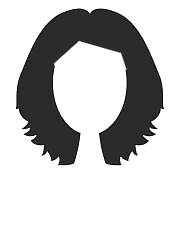
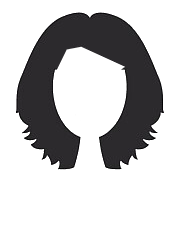
update hair dryer

diff --git a/dist/main.js b/dist/main.js
@@ -66,7 +66,7 @@ eval("__webpack_require__.r(__webpack_exports__);\n/* harmony export */ __webpac
   \**********************************/
 /***/ (function(__unused_webpack_module, __webpack_exports__, __webpack_require__) {
 
[2 lines of base64/hex data omitted]
 
 /***/ }),
 

diff --git a/src/scripts/hairDryer.js b/src/scripts/hairDryer.js
@@ -16,6 +16,14 @@ export default class HairDryer{
             this.hair_obj.src="/src/image/hairstyle/initial/initial.png";
             this.hair_obj.id ="initial";
             break;
+        case 'straight-median':
+            this.hair_obj.src="/src/image/hairstyle/straight/straight-median-blow.png";
+            this.hair_obj.id ="blow";
+            break;
+        case 'blow':
+            this.hair_obj.src="/src/image/hairstyle/straight/straight-median.png";
+            this.hair_obj.id ="straight-median";
+            break;
         default:
             alert("it's perfect");
         
